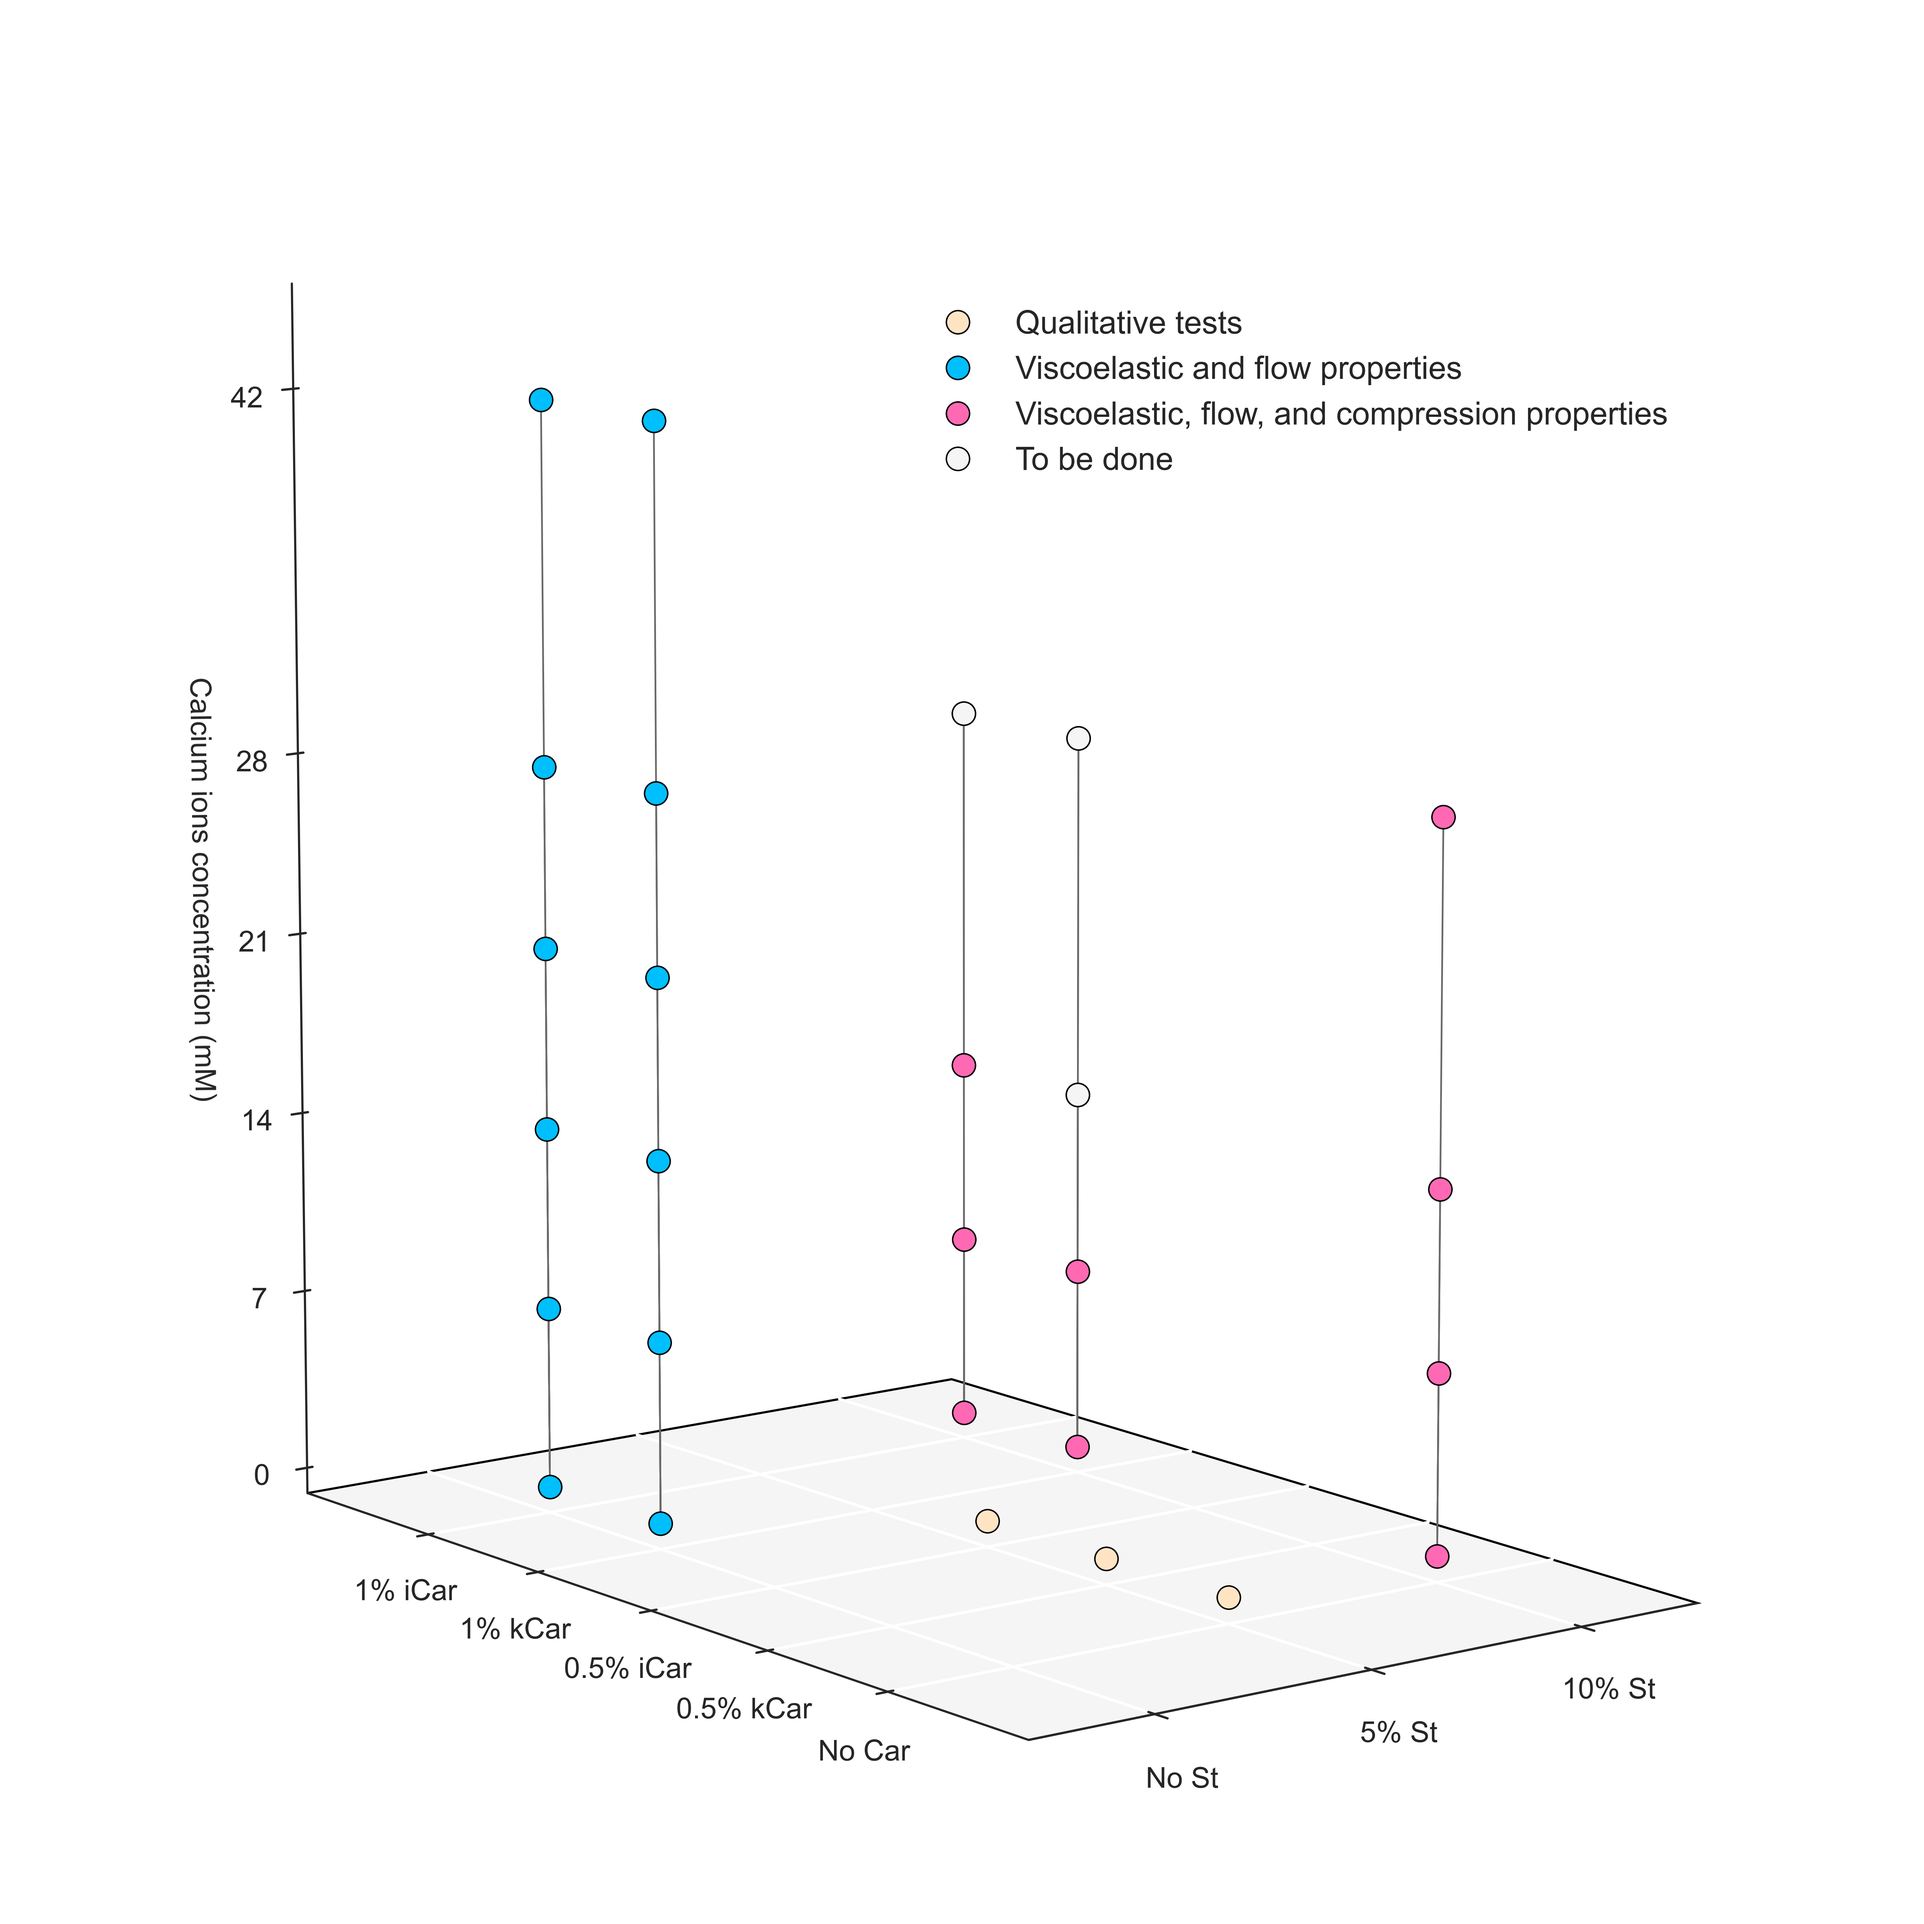
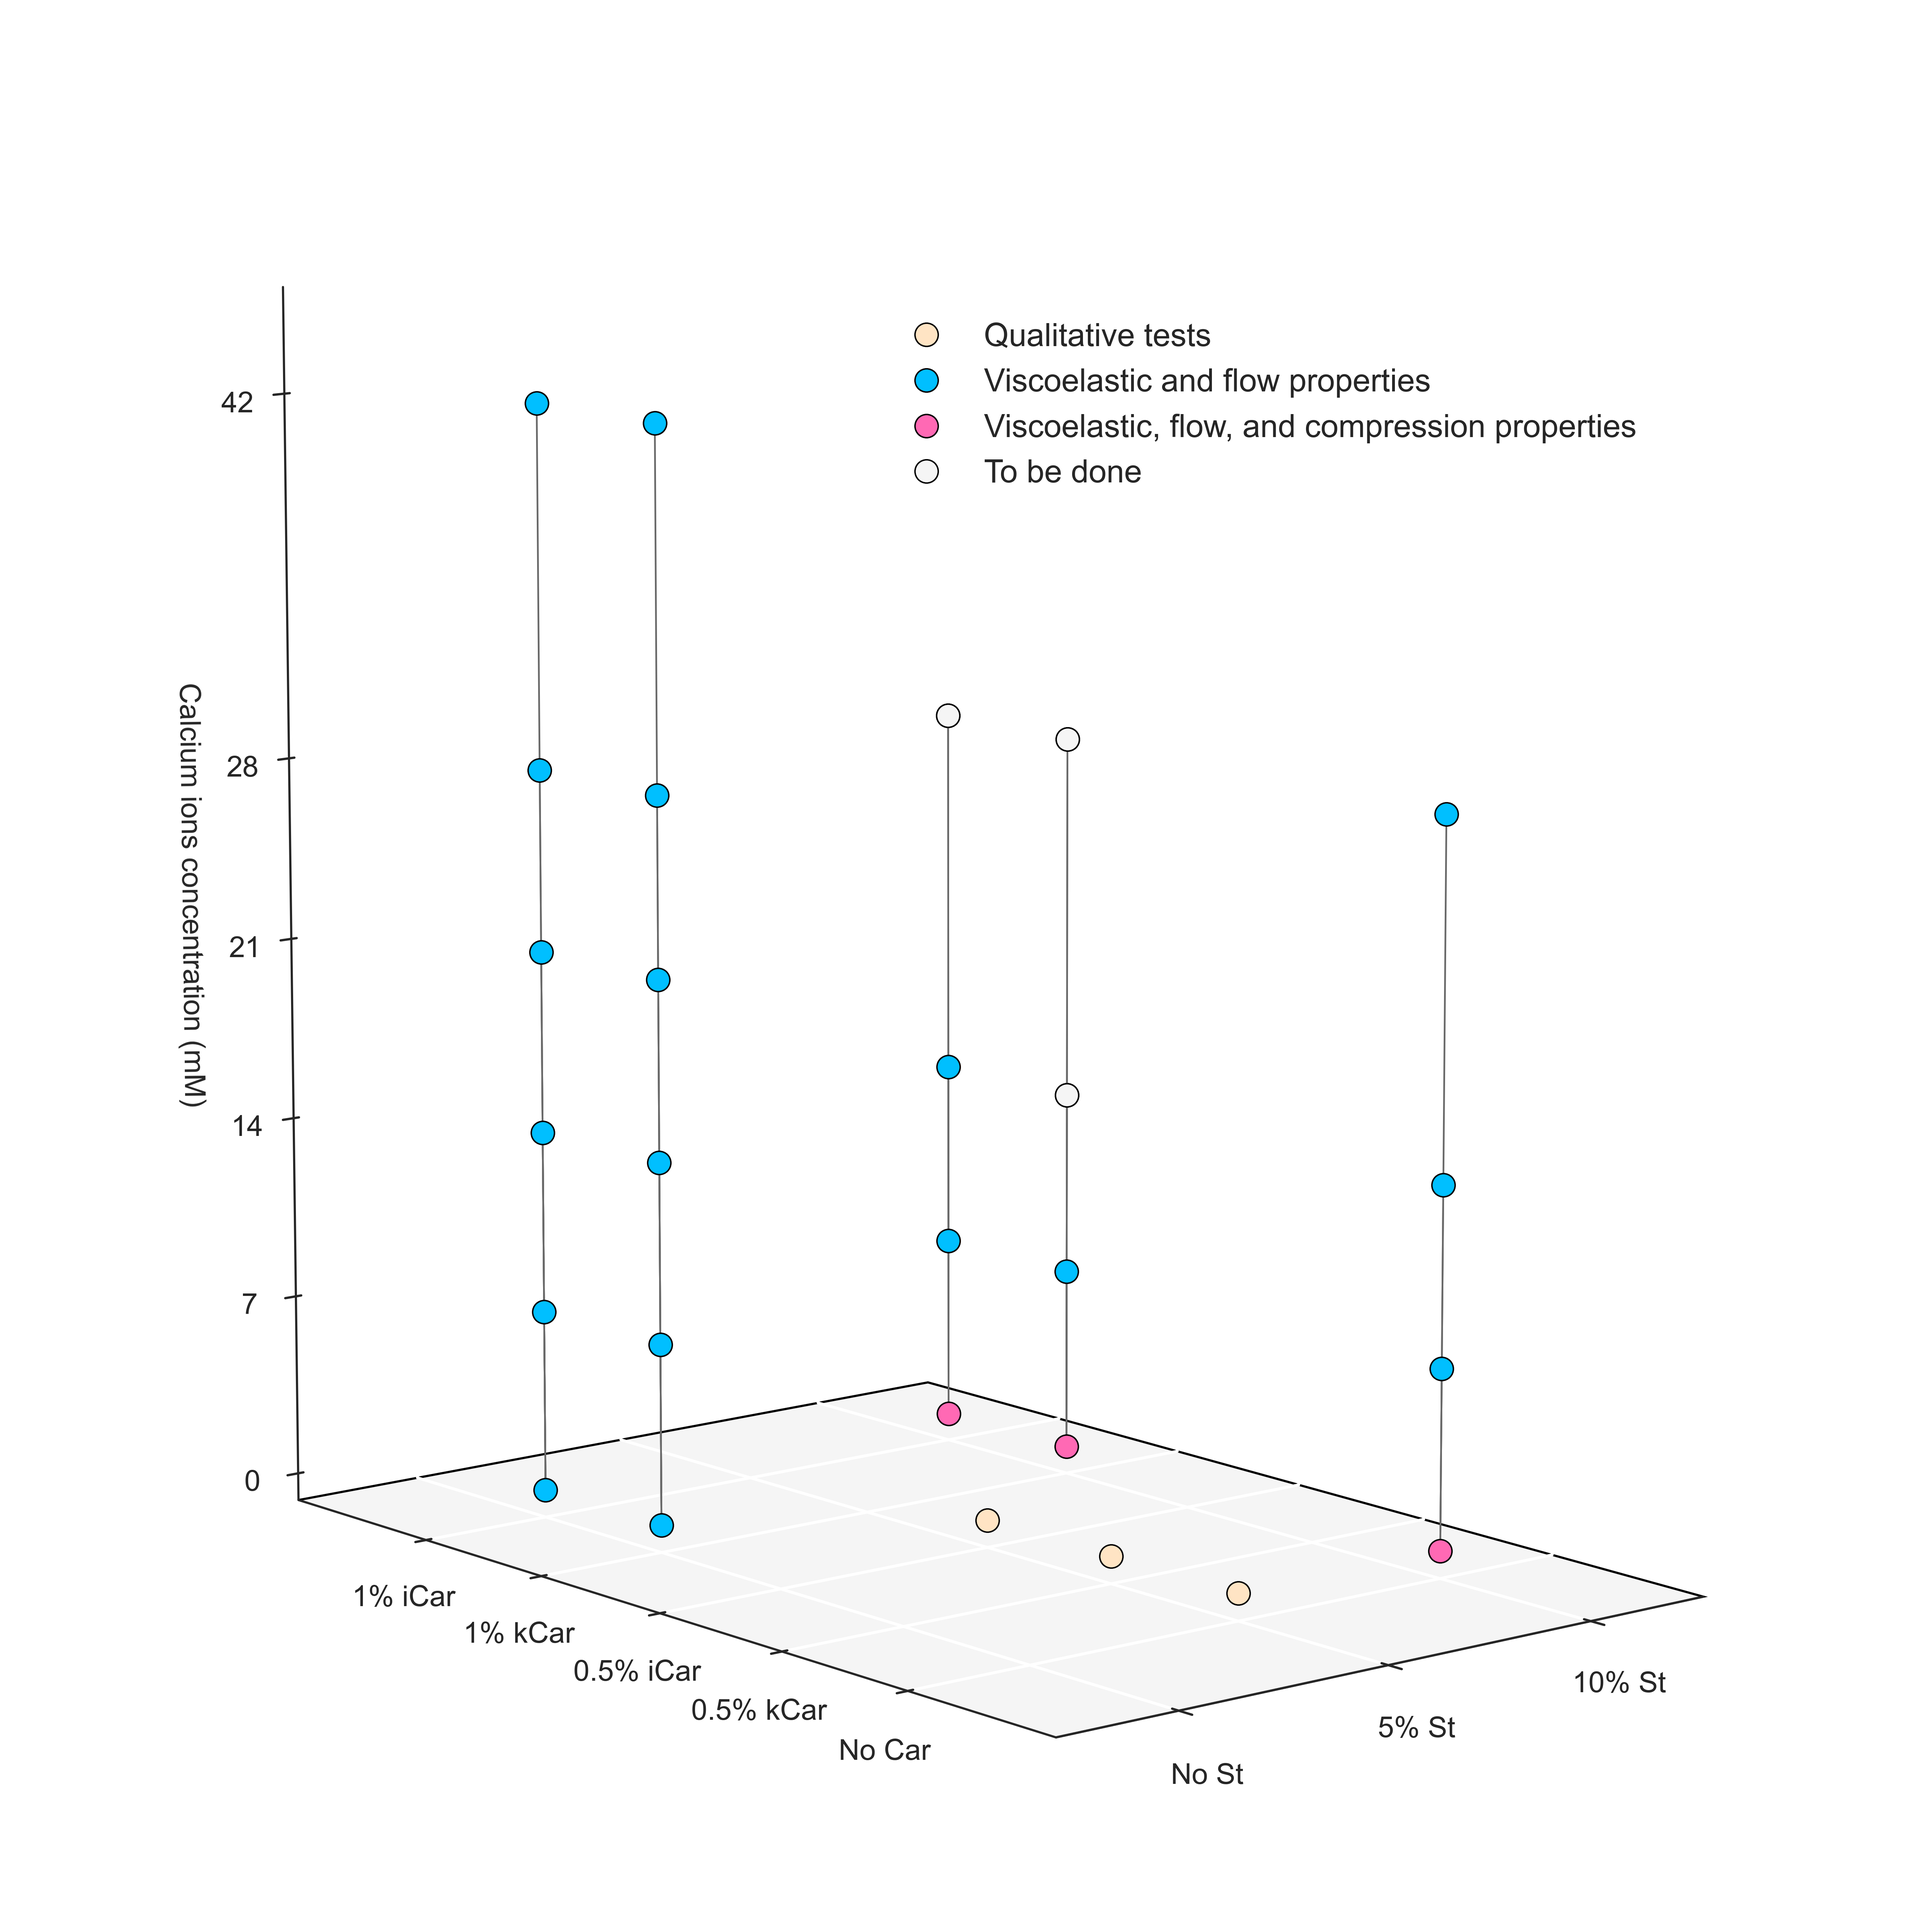
a lot of stuff

diff --git a/recovery.py b/recovery.py
@@ -176,14 +176,14 @@ def starch(folderPath):
     starches.plotGmodulus(
         f"Elastic modulus $G'$ (Pa)", (1 * 10 ** 0, 1 * 10 ** 5),
         f'Frequency (Hz)', (.075, 100),
-        show=False, save=True)
+        show=False, save=False)
 
     starches.plotBars(
         [0.5, 1800, 500, 30],
         [None, 4, None, None],
-        show=False, save=True)
+        show=False, save=False)
 
-    starches.plotHeatMap(show=False)
+    starches.plotHeatMap(show=False, save=True)
 
 
 def blends(folderPath):
@@ -339,14 +339,14 @@ def starch_kappa(folderPath):
     starches.plotGmodulus(
         f"Elastic modulus $G'$ (Pa)", (1 * 10 ** 0, 1 * 10 ** 5),
         f'Frequency (Hz)', (.075, 100),
-        show=False, save=True)
+        show=False, save=False)
 
     starches.plotBars(
         [0.5, 10000, 500, 30],
         [None, 4, None, None],
-        show=False, save=True)
+        show=False, save=False)
 
-    starches.plotHeatMap(show=False)
+    starches.plotHeatMap(show=False, save=True)
 
 
 def starch_iota(folderPath):
@@ -407,14 +407,14 @@ def starch_iota(folderPath):
     starches.plotGmodulus(
         f"Elastic modulus $G'$ (Pa)", (1 * 10 ** 0, 1 * 10 ** 5),
         f'Frequency (Hz)', (.075, 100),
-        show=False, save=True)
+        show=False, save=False)
 
     starches.plotBars(
         [0.5, 2500, 500, 30],
         [None, 4, None, None],
-        show=False, save=True)
+        show=False, save=False)
 
-    starches.plotHeatMap(show=False)
+    starches.plotHeatMap(show=False, save=True)
 
 
 if __name__ == '__main__':
@@ -424,8 +424,8 @@ if __name__ == '__main__':
     # kappa(path)
     # iota(path)
     # blends(path)
-    # starch(path)
+    starch(path)
     # starch_kappa(path)
-    starch_iota(path)
+    # starch_iota(path)
 
     plt.show()

diff --git a/custom plots/Figures/SamplesFormulations-Prop.py b/custom plots/Figures/SamplesFormulations-Prop.py
@@ -150,12 +150,13 @@ doneForms = [
 qualitative = [[0, 1, 0], [1, 1, 0], [2, 1, 0]]
 screening = [
     [3, 0, 0], [3, 0, 7], [3, 0, 14], [3, 0, 21], [3, 0, 28], [3, 0, 42],
-    [4, 0, 0], [4, 0, 7], [4, 0, 14], [4, 0, 21], [4, 0, 28], [4, 0, 42]
+    [4, 0, 0], [4, 0, 7], [4, 0, 14], [4, 0, 21], [4, 0, 28], [4, 0, 42],
+    [0, 2, 7], [0, 2, 14], [0, 2, 28],  # 10% St
+    [3, 2, 7], [3, 2, 14], [3, 2, 28],  # 1% kappa + St
+    [4, 2, 7], [4, 2, 14], [4, 2, 28],  # 1% iota + St
 ]
 complete = [
-    [0, 2, 0], [0, 2, 7], [0, 2, 14], [0, 2, 28],  # 10% St
-    [3, 2, 0], [3, 2, 7], [3, 2, 14], [3, 2, 28],  # 1% kappa + St
-    [4, 2, 0], [4, 2, 7], [4, 2, 14], [4, 2, 28],  # 1% iota + St
+    [0, 2, 0], [3, 2, 0], [4, 2, 0],
 ]
 tbd = [
     [3, 2, 14], [3, 2, 28], [4, 2, 28]

diff --git a/rheology/plotting.py b/rheology/plotting.py
@@ -658,7 +658,7 @@ class Recovery:
             plt.subplots_adjust(
                 wspace=0, hspace=0,
                 top=0.93, bottom=0.14,
-                left=0.07, right=1.0)
+                left=0.1, right=1.0)
 
             if show:
                 plt.show()

diff --git a/compression.py b/compression.py
@@ -170,7 +170,6 @@ def starch(folderPath):
         '#E36E34',
     ]
 
-
     # starches = DynamicCompression(
     #     filePath, 'starches',
     #     keySamples, nSamples, cSamples)
